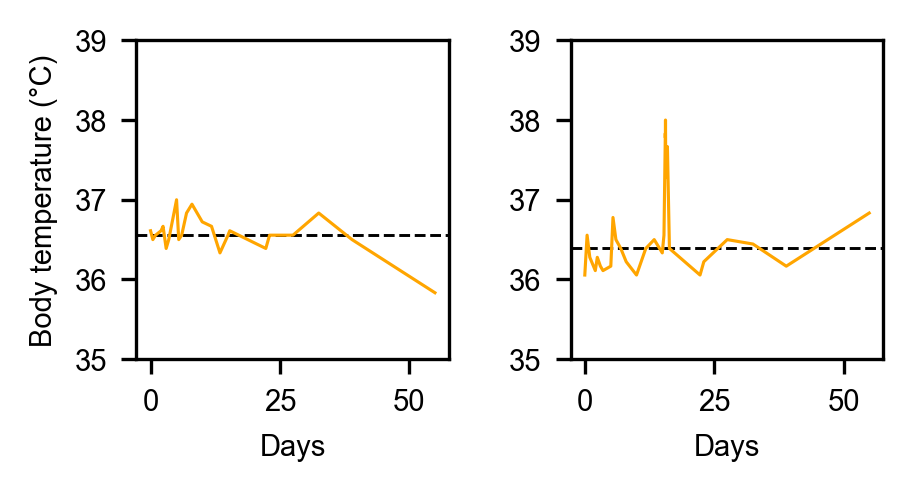
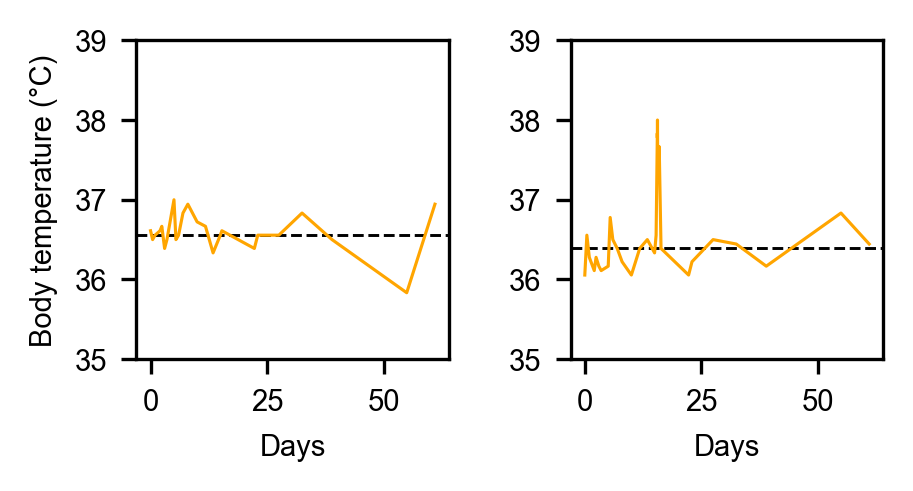
update health stats

diff --git a/health_stats_Di_Shaohe.md b/health_stats_Di_Shaohe.md
@@ -3,7 +3,7 @@ layout: player_stats
 title: Di and Shaohe Health
 author: Shaohe Wang
 author_url: https://scholar.google.com/citations?user=R_-kJV4AAAAJ&hl=en
-date: 2021-06-05
+date: 2021-06-06
 ---
 
 ### 左：吴笛；右：王少鹤
